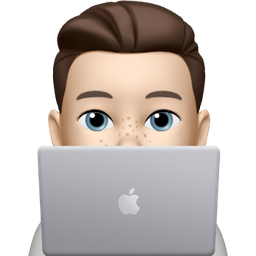
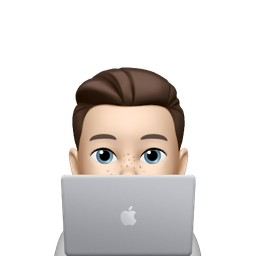
Zoom out the header memoji

diff --git a/_includes/head.html b/_includes/head.html
@@ -20,7 +20,7 @@
 <link rel="icon" type="image/png" sizes="32x32" href="/images/favicon-32.png?v=4" />
 <link rel="icon" type="image/png" sizes="64x64" href="/images/favicon.png?v=4" />
 <link rel="apple-touch-icon" href="/apple.png?v=4" />
-<link rel="stylesheet" type="text/css" href="{{ site.baseurl }}/assets/css/styles.css?v=20260929b" />
+<link rel="stylesheet" type="text/css" href="{{ site.baseurl }}/assets/css/styles.css?v=20260929c" />
 <script>
   document.documentElement.classList.add('js');
   // Later pages of a session skip the boot screen (site.js). Deciding it here, before the first

diff --git a/_sass/system.scss b/_sass/system.scss
@@ -505,7 +505,7 @@ kbd {
   border-radius: 0.55rem;
   /* Always the brand green (not the theme's --acid), so it matches the favicon in every theme;
      the CRT theme's amber filter still tints it along with everything else. */
-  background: #d9ff43 url("/images/memoji-brand.png") center / 100% no-repeat;
+  background: #d9ff43 url("/images/memoji-brand.png?v=2") center / 100% no-repeat;
   box-shadow: inset 0 0 0 1.5px var(--ink);
   transition: transform 500ms var(--ease-out), filter 250ms ease;
 }
